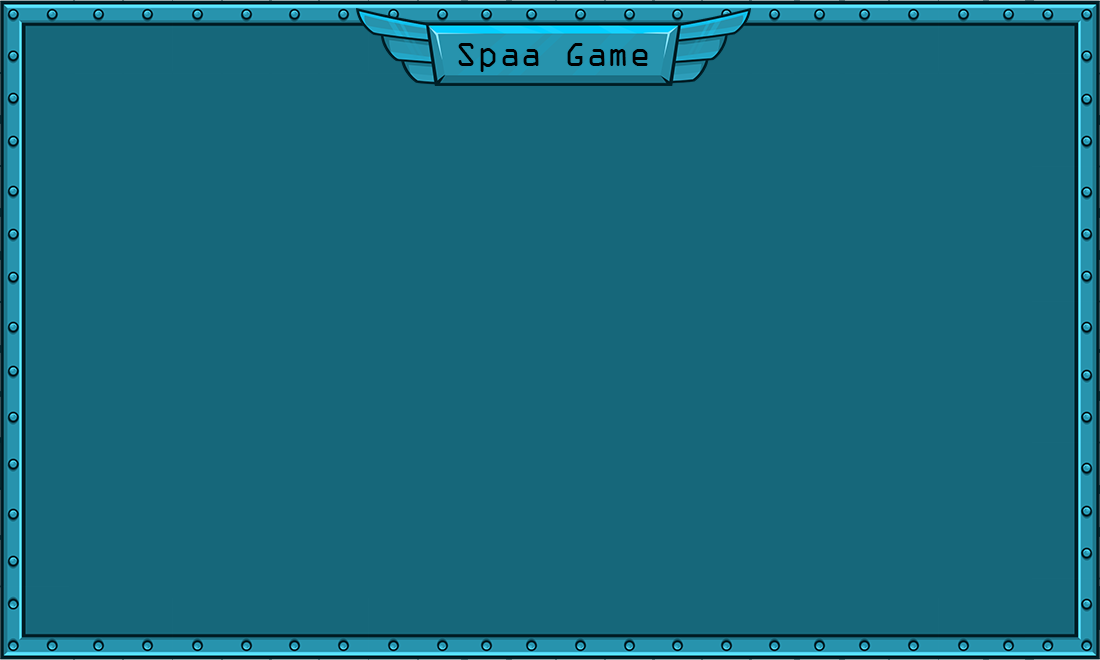
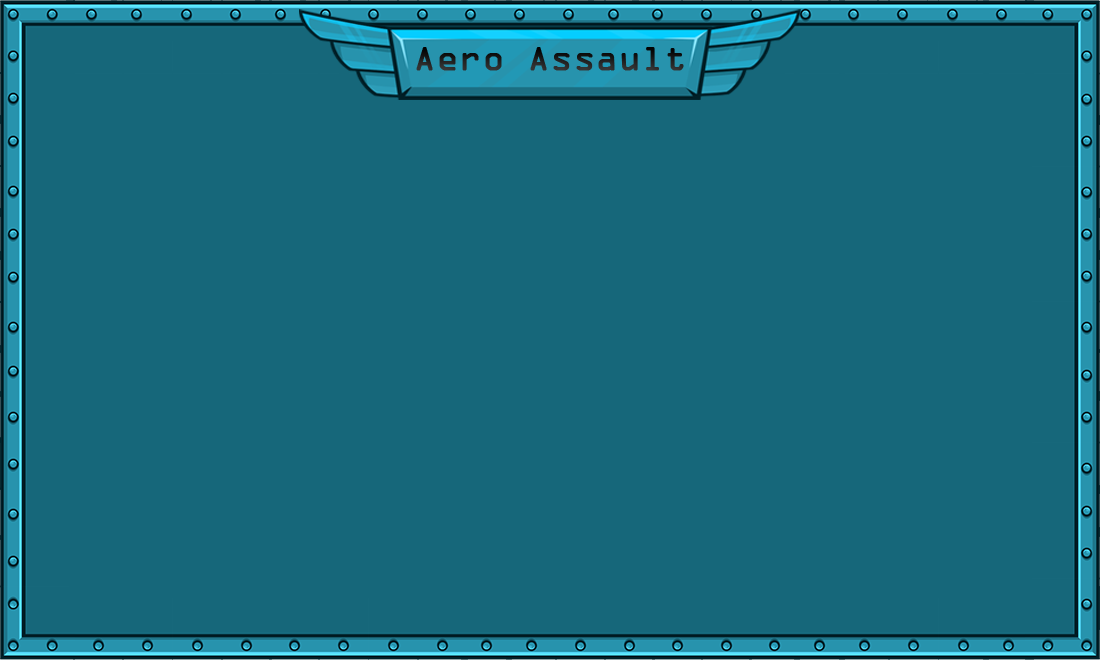
intro

Changed region(s): [[0.0618, 0.0, 0.9273, 0.1515]]

diff --git a/test.py b/test.py
@@ -1,0 +1,52 @@
+import pygame
+from pygame.locals import *
+import sys
+
+pygame.init()
+
+# Set up your display with a black66 background
+screen = pygame.display.set_mode((1100, 660))  # Adjust dimensions as needed
+pygame.display.set_caption("Game Intro")
+background_color = (0, 0, 0)  # Black background color
+
+# Load the intro image
+intro_image = pygame.image.load("src/img/meta/intro_image.png")
+intro_rect = intro_image.get_rect()
+
+# Set the initial alpha value for the image
+alpha = 255  # Fully opaque
+
+# Create a clock object to control frame rate
+clock = pygame.time.Clock()
+
+# Timer for controlling the intro duration
+intro_timer = 0
+intro_duration = 5000  # 5000 milliseconds (5 seconds)
+
+running = True
+while running:
+    for event in pygame.event.get():
+        if event.type == QUIT:
+            running = False
+
+    screen.fill(background_color)  # Fill with a black background
+
+    if intro_timer < intro_duration:
+        screen.blit(intro_image, intro_rect)
+
+        # Gradually decrease alpha value to create a fade-in effect
+        alpha -= 1
+        intro_image.set_alpha(alpha)
+
+        # Update the display
+        pygame.display.update()
+
+        # Increase the timer
+        intro_timer += clock.get_time()
+    else:
+        running = False  # Exit the loop after the intro duration
+
+    clock.tick(60)  
+
+pygame.quit()
+sys.exit()

diff --git a/main.py b/main.py
@@ -10,27 +10,48 @@ screen_width = 1100
 screen_height = 660
 
 screen = pygame.display.set_mode((screen_width, screen_height))
-pygame.display.set_caption("SPAA Game")
+pygame.display.set_caption("Aero Assault")
+
+
+intro_image = pygame.image.load("src/img/meta/intro_image.png")
+intro_rect = intro_image.get_rect()
+
+
+
+intro_duration = 5000  # 5000 millisecon
 
 from states import states
 state=states.state
 state.menu_state()
-
+background_color=('black')
 
 def main():
+    intro_timer = 0
+    alpha = 255  
+
     while state.running:
         current_state=state
-
+        screen.fill(background_color)  
         clock.tick(60)
         events = pygame.event.get()
+        
         
         for event in events:
             if event.type == pygame.QUIT:
                 state.running = False
 
+        
 
-        current_state.handle_events(events)
-        current_state.draw(screen)
+        if intro_timer < intro_duration:
+            screen.blit(intro_image, intro_rect)
+            alpha -= 1
+            intro_image.set_alpha(alpha)
+            pygame.display.update()
+            intro_timer += clock.get_time()
+
+        else:
+            current_state.handle_events(events)
+            current_state.draw(screen)
 
 
         pygame.display.flip()
